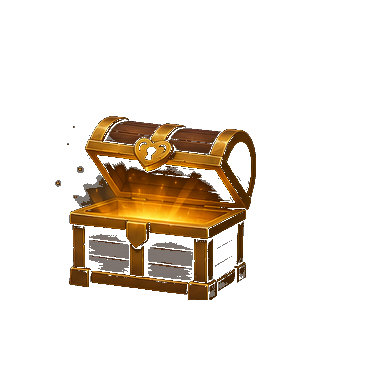
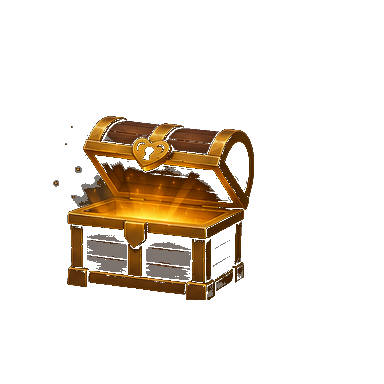
Polish fantasy chest frame alignment and ignore oversized APK.
Lock production frames to a stable base anchor, land empty opens on
OPEN_EMPTY, bump to v38, and remove the fantasy APK gitignore exception
so GitHub's 100MB limit is not hit by a tracked debug build.

diff --git a/side_projects/ChestOfLoveNotes/tools/prepare_chest_animation_frames.py b/side_projects/ChestOfLoveNotes/tools/prepare_chest_animation_frames.py
@@ -165,19 +165,78 @@ def place_aligned(arr: np.ndarray) -> tuple[np.ndarray, tuple[float, float] | No
 	return out, anchor, crop_h
 
 
+def base_metrics(rgba: np.ndarray) -> tuple[float, float] | None:
+	alpha = rgba[:, :, 3]
+	ys, xs = np.where(alpha > 40)
+	if len(xs) == 0:
+		return None
+	y_max = int(ys.max())
+	band = ys >= (y_max - 8)
+	bx = xs[band]
+	cx = float(np.median(bx))
+	return cx, float(y_max)
+
+
+def lock_to_anchor(rgba: np.ndarray, target_cx: float, target_y: float) -> np.ndarray:
+	"""Translate so the base foot center matches the sequence's closed frame."""
+	m = base_metrics(rgba)
+	if m is None:
+		return rgba
+	cx, y = m
+	dx = int(round(target_cx - cx))
+	dy = int(round(target_y - y))
+	if dx == 0 and dy == 0:
+		return rgba
+	out = np.zeros_like(rgba)
+	h, w = rgba.shape[:2]
+	if dx >= 0:
+		dst_x0, src_x0, width = dx, 0, w - dx
+	else:
+		dst_x0, src_x0, width = 0, -dx, w + dx
+	if dy >= 0:
+		dst_y0, src_y0, height = dy, 0, h - dy
+	else:
+		dst_y0, src_y0, height = 0, -dy, h + dy
+	if width <= 0 or height <= 0:
+		return rgba
+	out[dst_y0 : dst_y0 + height, dst_x0 : dst_x0 + width] = rgba[
+		src_y0 : src_y0 + height, src_x0 : src_x0 + width
+	]
+	return out
+
+
 def process(path: Path, prefix: str, picks: list[int], sub: str, labels: list[str]) -> list[dict]:
 	rgb = load_rgb(path)
 	out_dir = OUT / sub
 	out_dir.mkdir(parents=True, exist_ok=True)
 	for p in out_dir.glob("*.png"):
 		p.unlink()
-	meta: list[dict] = []
-	for seq, src in enumerate(picks):
+	placed_list: list[tuple[np.ndarray, int, int]] = []
+	for src in picks:
 		placed, _anchor, crop_h = place_aligned(cell_at(rgb, src))
+		placed_list.append((placed, crop_h, src))
+	anchor_m = base_metrics(placed_list[0][0])
+	if anchor_m is None:
+		raise RuntimeError(f"Could not find base anchor for {sub} closed frame")
+	target_cx, target_y = anchor_m
+	print(f"{sub} lock target cx={target_cx:.1f} y={target_y:.1f}")
+	meta: list[dict] = []
+	for seq, (placed, crop_h, src) in enumerate(placed_list):
+		locked = lock_to_anchor(placed, target_cx, target_y)
 		fname = f"{prefix}_{seq:02d}.png"
-		Image.fromarray(placed, "RGBA").save(out_dir / fname)
+		Image.fromarray(locked, "RGBA").save(out_dir / fname)
 		label = labels[seq] if seq < len(labels) else ""
-		meta.append({"file": fname, "src_index": src, "label": label, "crop_h": crop_h})
+		m = base_metrics(locked)
+		meta.append(
+			{
+				"file": fname,
+				"src_index": src,
+				"label": label,
+				"crop_h": crop_h,
+				"base_cx": m[0] if m else None,
+				"base_y": m[1] if m else None,
+			}
+		)
 		print(f"{sub}/{fname} src={src:02d} crop_h={crop_h} [{label}]")
 	(out_dir / "manifest.json").write_text(json.dumps(meta, indent=2))
 	return meta
